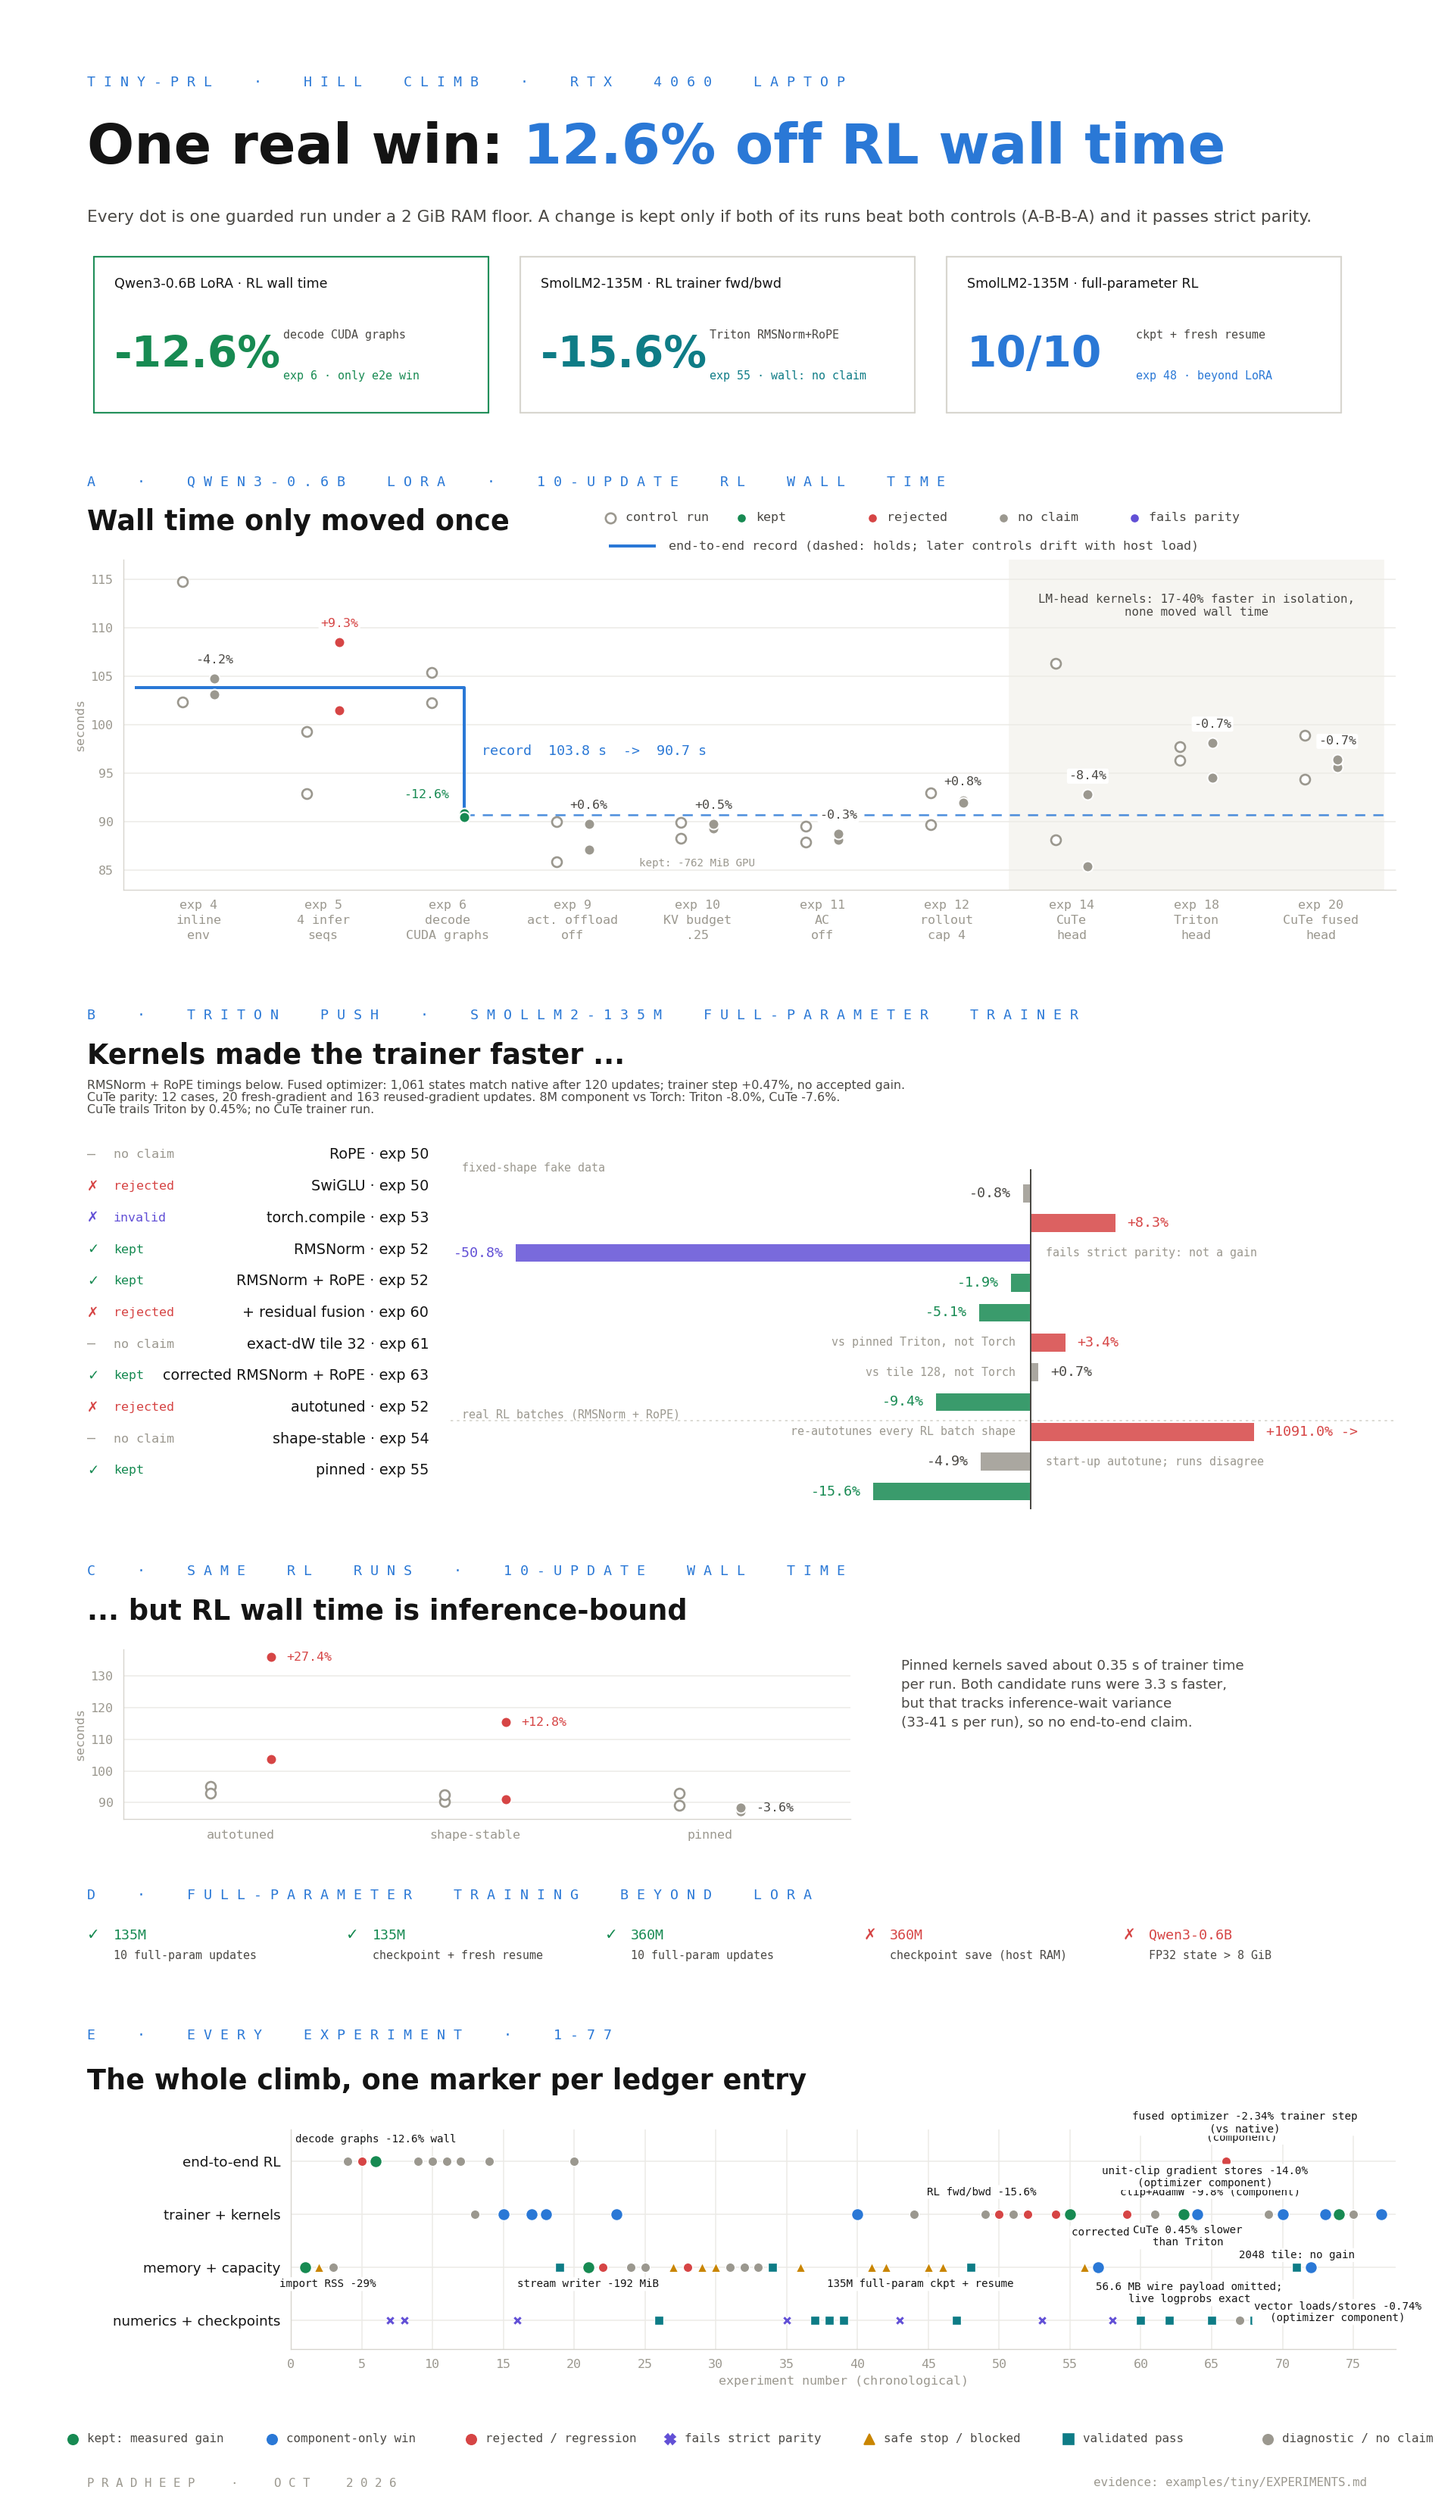
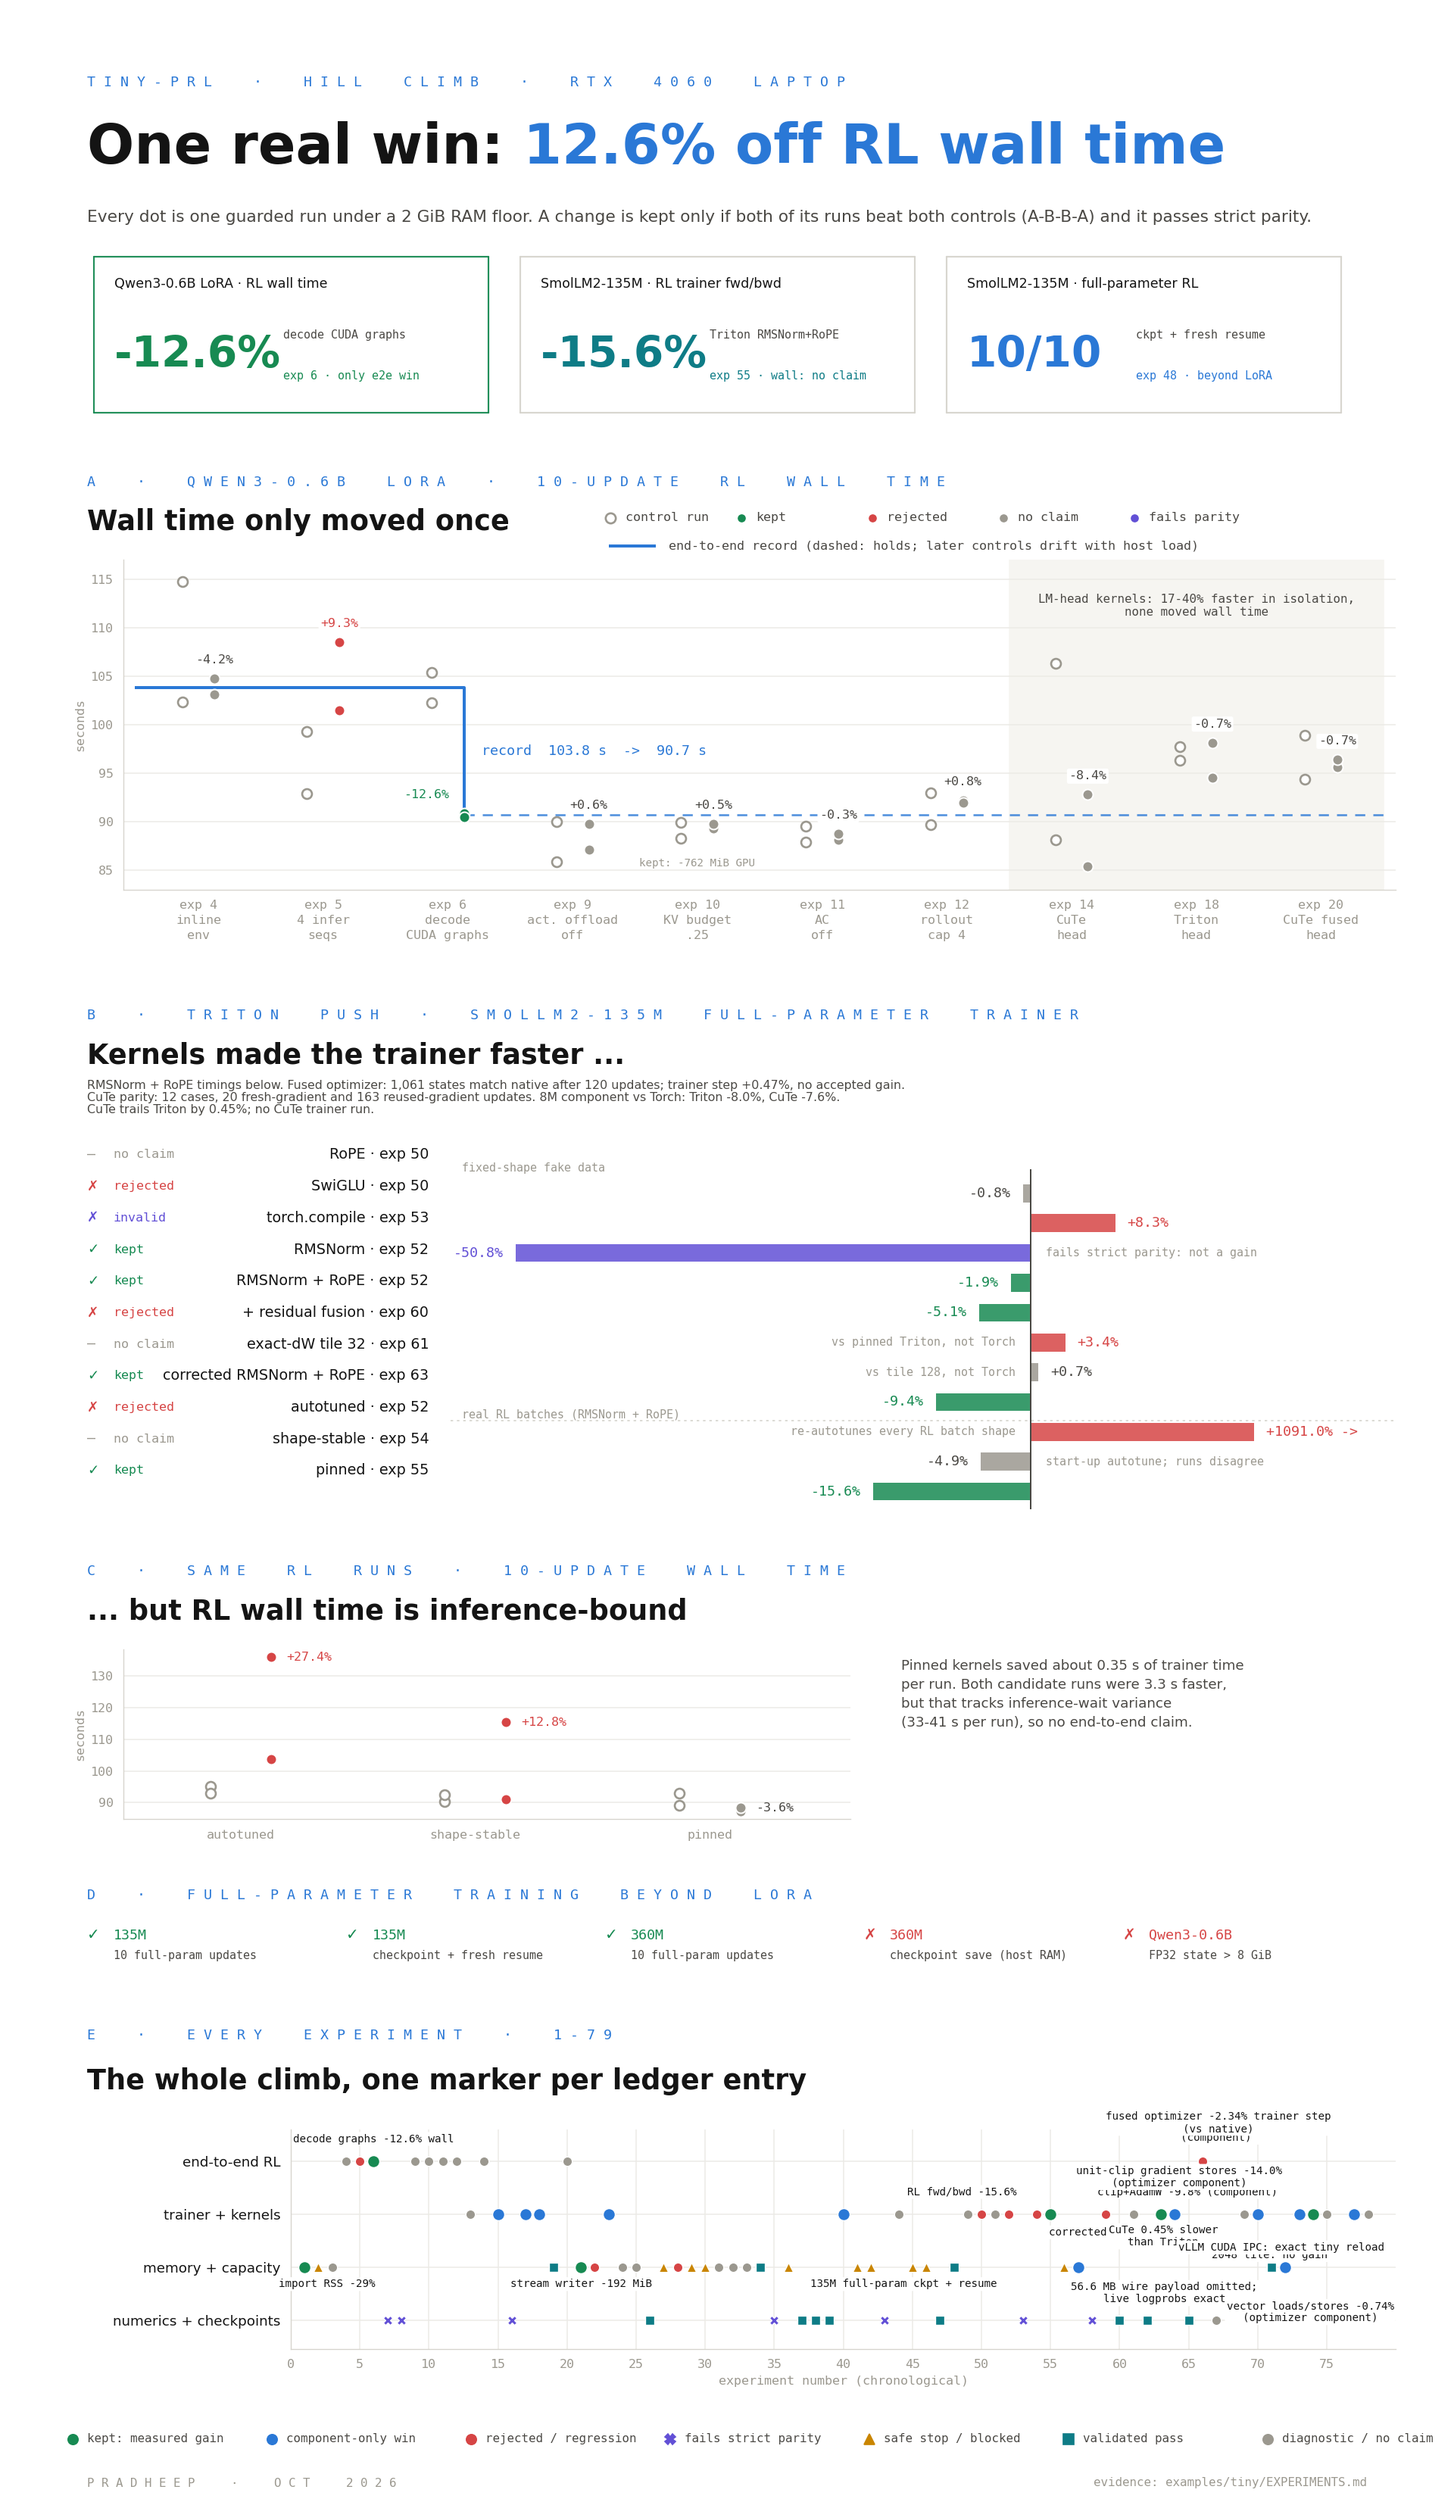
Record full CuTe parity and live vLLM IPC validation

diff --git a/tools/plot_tiny_hillclimb.py b/tools/plot_tiny_hillclimb.py
@@ -173,6 +173,8 @@ EXPERIMENTS = {
     75: (TRAIN, "none"),
     76: (NUM, "validated"),
     77: (TRAIN, "component"),
+    78: (TRAIN, "none"),
+    79: (NUM, "validated"),
 }
 # Callout text with (dx, dy) offsets in points, staggered so neighbours do not collide.
 CALLOUTS = {
@@ -190,6 +192,7 @@ CALLOUTS = {
     74: ("fused optimizer -2.34% trainer step\n(vs native)", (-75, 65)),
     75: ("2048 tile: no gain", (-45, -35)),
     77: ("vector loads/stores -0.74%\n(optimizer component)", (-35, -85)),
+    79: ("vLLM CUDA IPC: exact tiny reload", (-80, 55)),
 }
 
 MILESTONES = [

diff --git a/examples/tiny/EXPERIMENTS.md b/examples/tiny/EXPERIMENTS.md
@@ -759,3 +759,23 @@ The small probe passed 12 native-reference cases, special gradient bit patterns 
 Held-out A-B-B-A-B-A-A-B timing used 50 synchronized warmup updates per arm and eight measured CUDA-event updates per trial, retaining only a canonical state plus one active arm. At coefficient one, median time fell from 16.49459 to 16.37274 ms (-0.739%); at coefficient one third, from 18.99264 to 18.85850 ms (-0.706%). Every candidate trial median was faster than every control trial median in both sections. The guard returned 0 in 19.86 seconds, with 3.86 GB minimum available RAM and 4,253 MiB GPU peak. This is a small optimizer component improvement; no production integration, actual-trainer speedup or whole-RL gain is established. CPU alignment-check overhead still needs consideration before promotion.
 
[1 lines of base64/hex data omitted]
+
+## Experiment 78: CuTe multi-tensor optimizer passes full parity but does not beat Triton
+
+The exact flat-buffer CuTe optimizer was extended to the full 212-tensor layout, using the production native-compatible bias-preparation kernel and explicit RN PTX update arithmetic. Aligned full tiles use 128-bit loads and stores; scalar tails retain the same math. PTX and SASS confirm `ld.global.v4.b32` / `st.global.v4.b32` and `LDG.E.128` / `STG.E.128`. The kernel retains finite unit-coefficient gradient-store omission and NaN writeback.
+
+The first two launches exposed TVM-FFI wrapper mismatches: a compile-time grid argument was incorrectly repeated at runtime, and a scalar clip coefficient needed a rank-one view. After those fixes, the single-tensor probe passed but full geometry failed its first numerical comparison. The cause was single-integer indexing of a rank-two CuTe bias tensor; shape `(1,2)` hid the error. Explicit `[tensor_id,0]` / `[tensor_id,1]` indexing corrected it, and a new three-tensor/five-CTA probe with unequal starting steps passed before rerunning full geometry. A harness review also caught simultaneous allocation of old and new comparison states before launch; the full suite releases prior states before replacement.
+
+Revision 5 passed all 12 full-layout single-update cases, independent unequal steps, 20 fresh-gradient and 163 reused-gradient updates, the captured update-102 regression and special gradient bits. Its guard returned 0 in 20.84 seconds, with 11.51 GB minimum available RAM and 4,773 MiB GPU peak. This proves the exercised full-layout arithmetic and vector path, not unrestricted optimizer correctness.
+
+A balanced three-arm comparison retained only one fresh same-seed state per trial, with 50 synchronized warmup updates and eight CUDA-event samples. Order was A-B-C-C-B-A-C-B-A-A-B-C, repeated for each coefficient. At coefficient one, Triton/Gluon/CuTe medians were 16.72448/16.45725/16.83046 ms; at coefficient one third, 19.03565/18.82214/19.18413 ms. CuTe did not beat current Triton or Gluon. The benchmark guard returned 0 in 29.28 seconds, with 11.59 GB minimum available RAM and 2,193 MiB GPU peak. No CuTe trainer integration or speedup is claimed. A 128-thread/eight-element layout is a separate next experiment.
+
[1 lines of base64/hex data omitted]
+
+## Experiment 79: actual vLLM checkpoint-style reload accepts CUDA IPC weights
+
+A local BF16 tied Llama fixture with two layers and hidden size 128 supplied initial and deliberately updated weights. A real pinned vLLM worker first verified its initial tied-object identity and embedding hash, loaded the filesystem update through the existing checkpoint-style loader/finalizer, and proved a nontrivial token/logprob change. It then reloaded the initial checkpoint and reproduced the exact baseline output before applying the same updated weights through CUDA IPC.
+
+The controller retained a single 722,176-byte staging allocation and named views through receiver synchronization, post-finalizer proof/ACK and completed collective RPC. The receiver loaded those views through `load_weights_checkpoint_layerwise`, preserving parameter storage and tied aliases. IPC output token IDs and all returned token/top logprobs matched the filesystem result exactly; embedding hashes matched the expected updated source, and head/embedding object identity remained true.
+
[1 lines of base64/hex data omitted]
